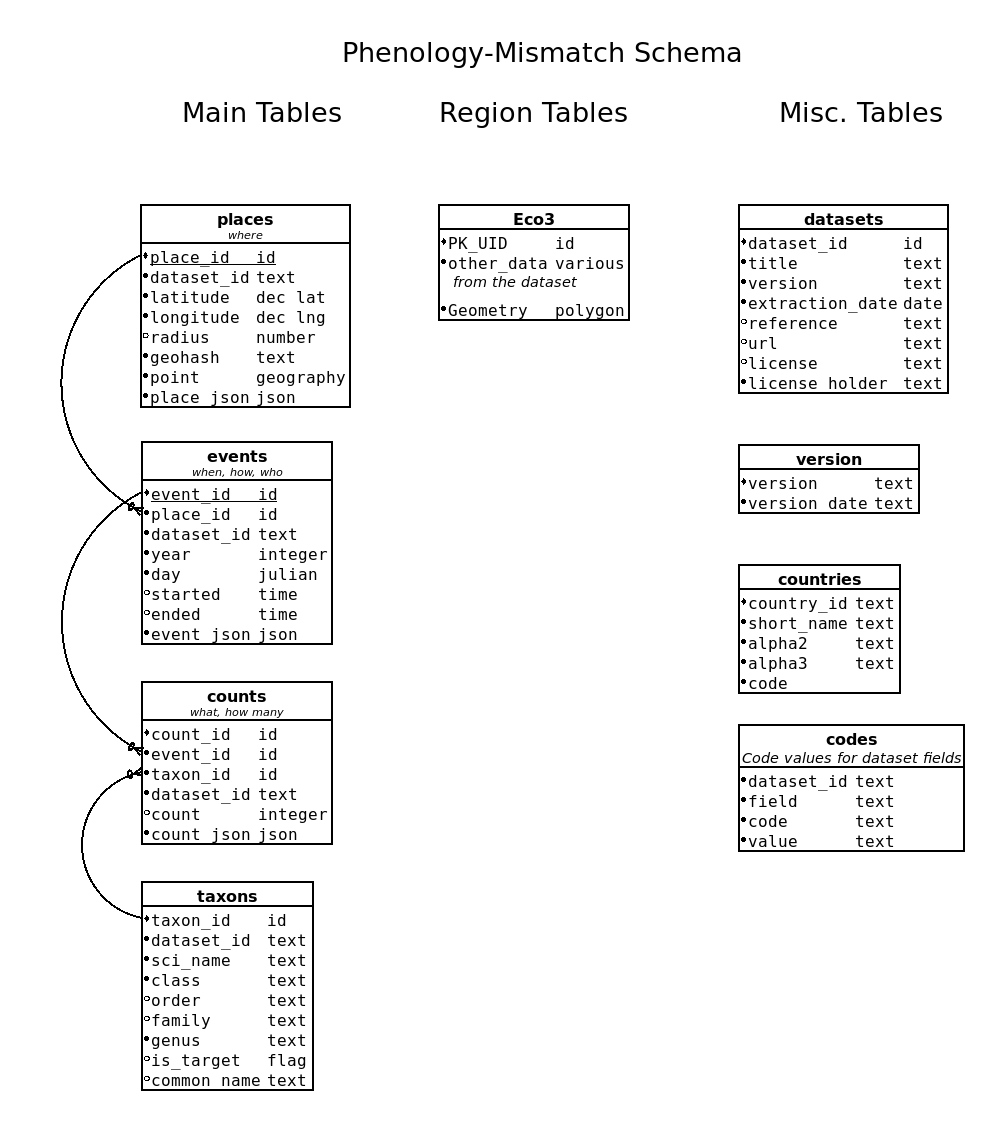
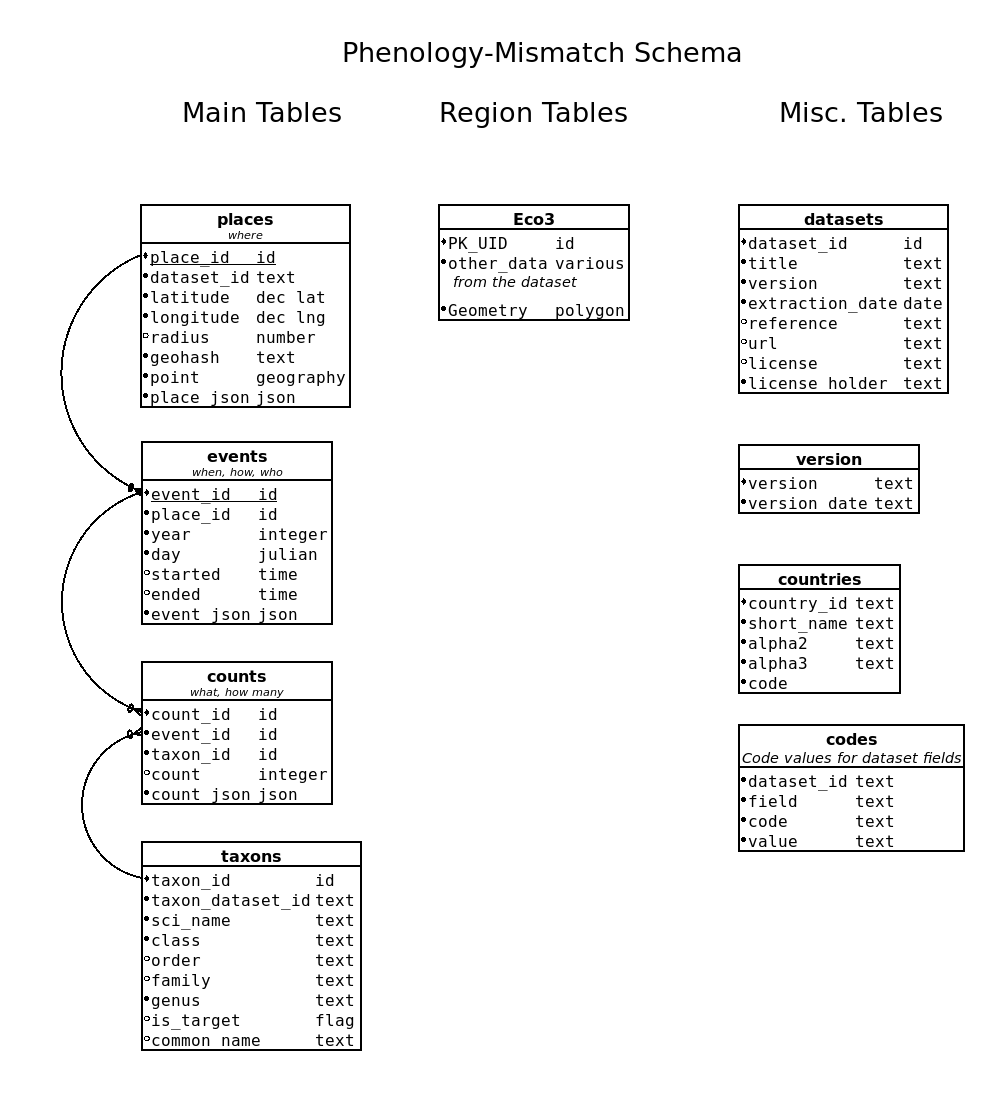
Normalize DB

diff --git a/src/lib/db.py b/src/lib/db.py
@@ -5,7 +5,7 @@ class Db:
     """Common database functions."""
 
     TAXON_ID = 'taxon_id'
-    TAXON_COLUMNS = """dataset_id sci_name class order family genus
+    TAXON_COLUMNS = """taxon_dataset_id sci_name class order family genus
                        common_name target""".split()
 
     CODE_COLUMNS = 'dataset_id field code value'.split()
@@ -14,10 +14,10 @@ class Db:
     PLACE_COLUMNS = 'dataset_id lng lat radius'.split()  # geohash geopoint
 
     EVENT_INDEX = 'event_id'
-    EVENT_COLUMNS = 'place_id dataset_id year day started ended'.split()
+    EVENT_COLUMNS = 'place_id year day started ended'.split()
 
     COUNT_INDEX = 'count_id'
-    COUNT_COLUMNS = 'event_id taxon_id dataset_id count'.split()
+    COUNT_COLUMNS = 'event_id taxon_id count'.split()
 
     def delete_dataset(self):
         """Clear dataset from the database."""
@@ -26,17 +26,30 @@ class Db:
         self.execute(
             'DELETE FROM datasets WHERE dataset_id = ?', (self.dataset_id, ))
 
-        self.execute(
-            'DELETE FROM places WHERE dataset_id = ?', (self.dataset_id, ))
+        self.execute("""DELETE
+                         FROM places
+                        WHERE dataset_id NOT IN (SELECT dataset_id
+                                                   FROM datasets)""")
 
-        self.execute(
-            'DELETE FROM "events" WHERE dataset_id = ?', (self.dataset_id, ))
+        self.execute("""DELETE
+                          FROM "events"
+                         WHERE place_id NOT IN (SELECT place_id
+                                                  FROM places)""")
 
-        self.execute(
-            'DELETE FROM counts WHERE dataset_id = ?', (self.dataset_id, ))
+        self.execute("""DELETE
+                          FROM counts
+                         WHERE event_id NOT IN (SELECT event_id
+                                                  FROM "events")""")
 
-        self.execute(
-            'DELETE FROM codes WHERE dataset_id = ?', (self.dataset_id, ))
+        self.execute("""DELETE
+                          FROM counts
+                         WHERE taxon_id NOT IN (SELECT taxon_id
+                                                  FROM taxons)""")
+
+        self.execute("""DELETE
+                          FROM codes
+                         WHERE dataset_id NOT IN (SELECT dataset_id
+                                                    FROM datasets)""")
 
     def add_taxon_id(self, taxons):
         """Add event IDs to the dataframe."""
